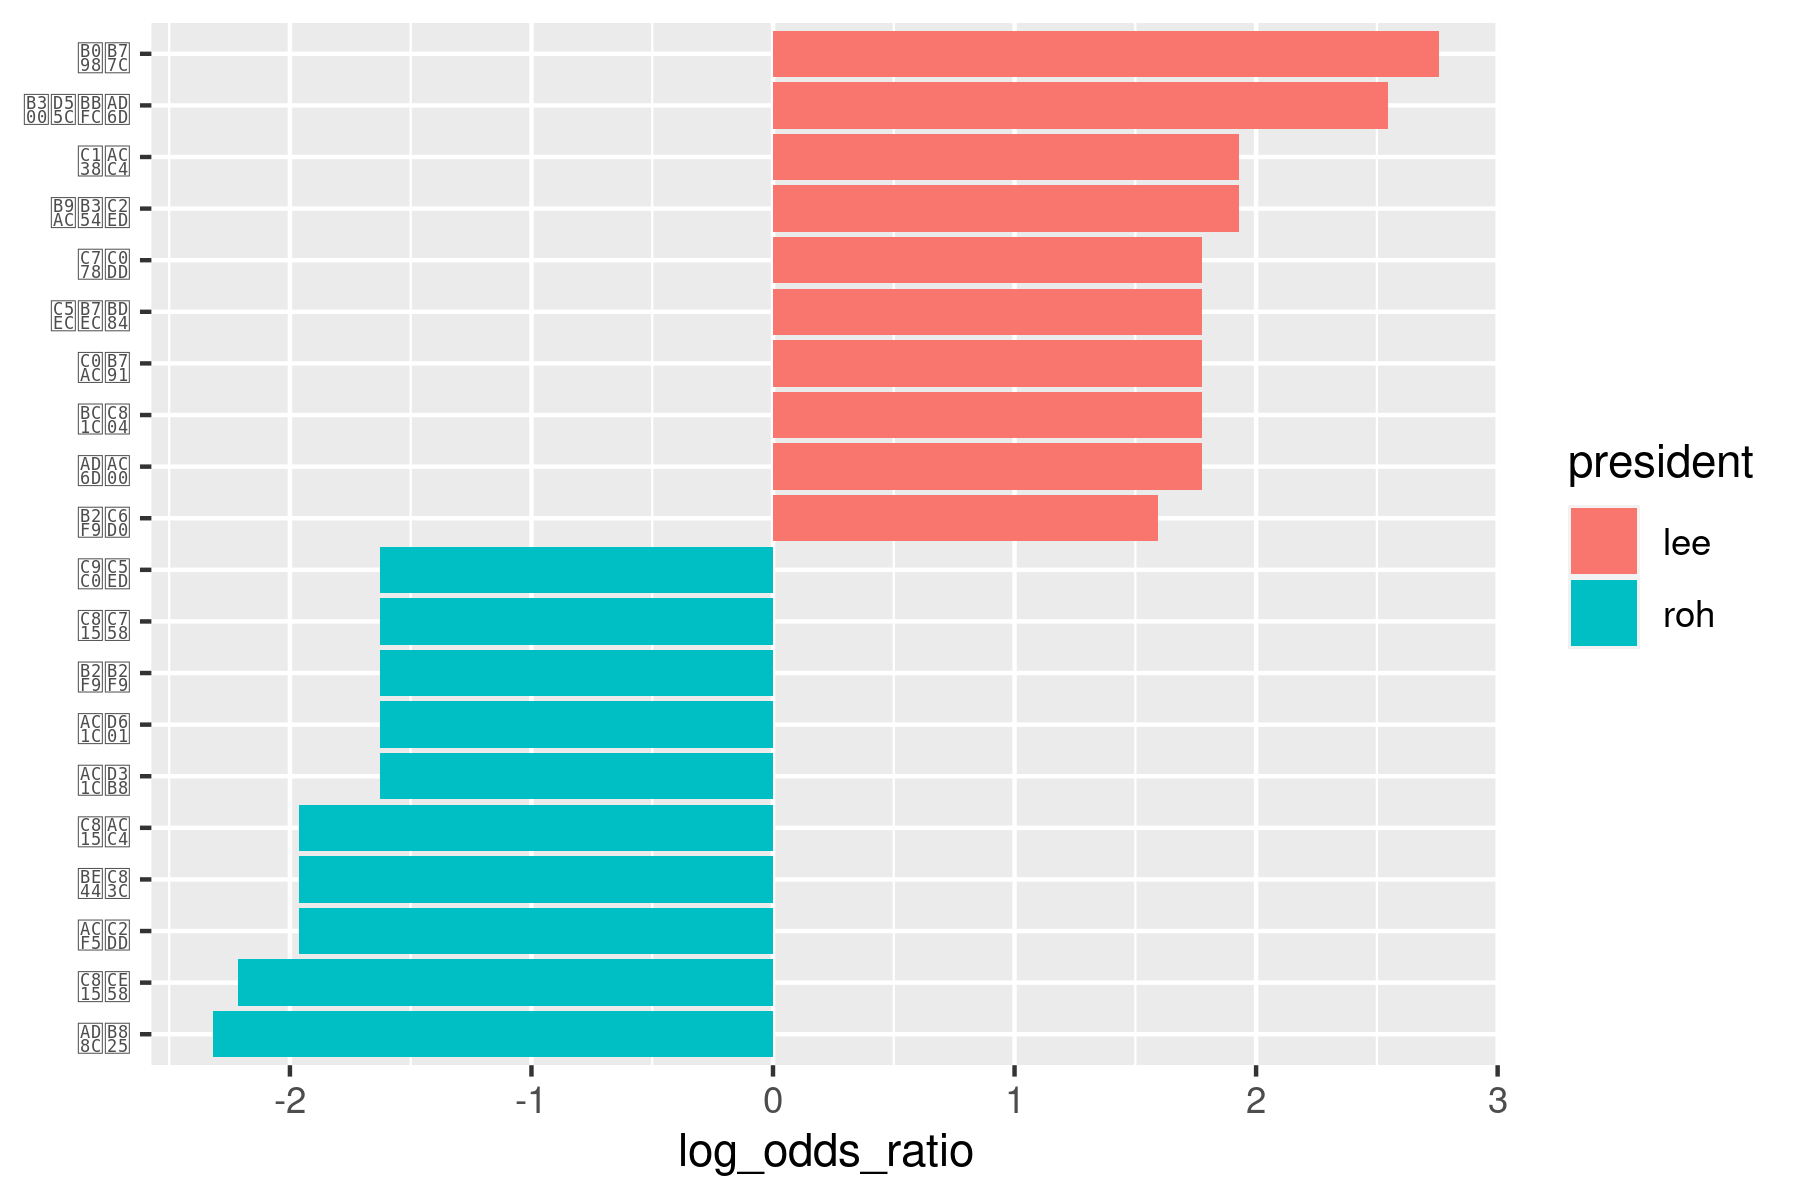
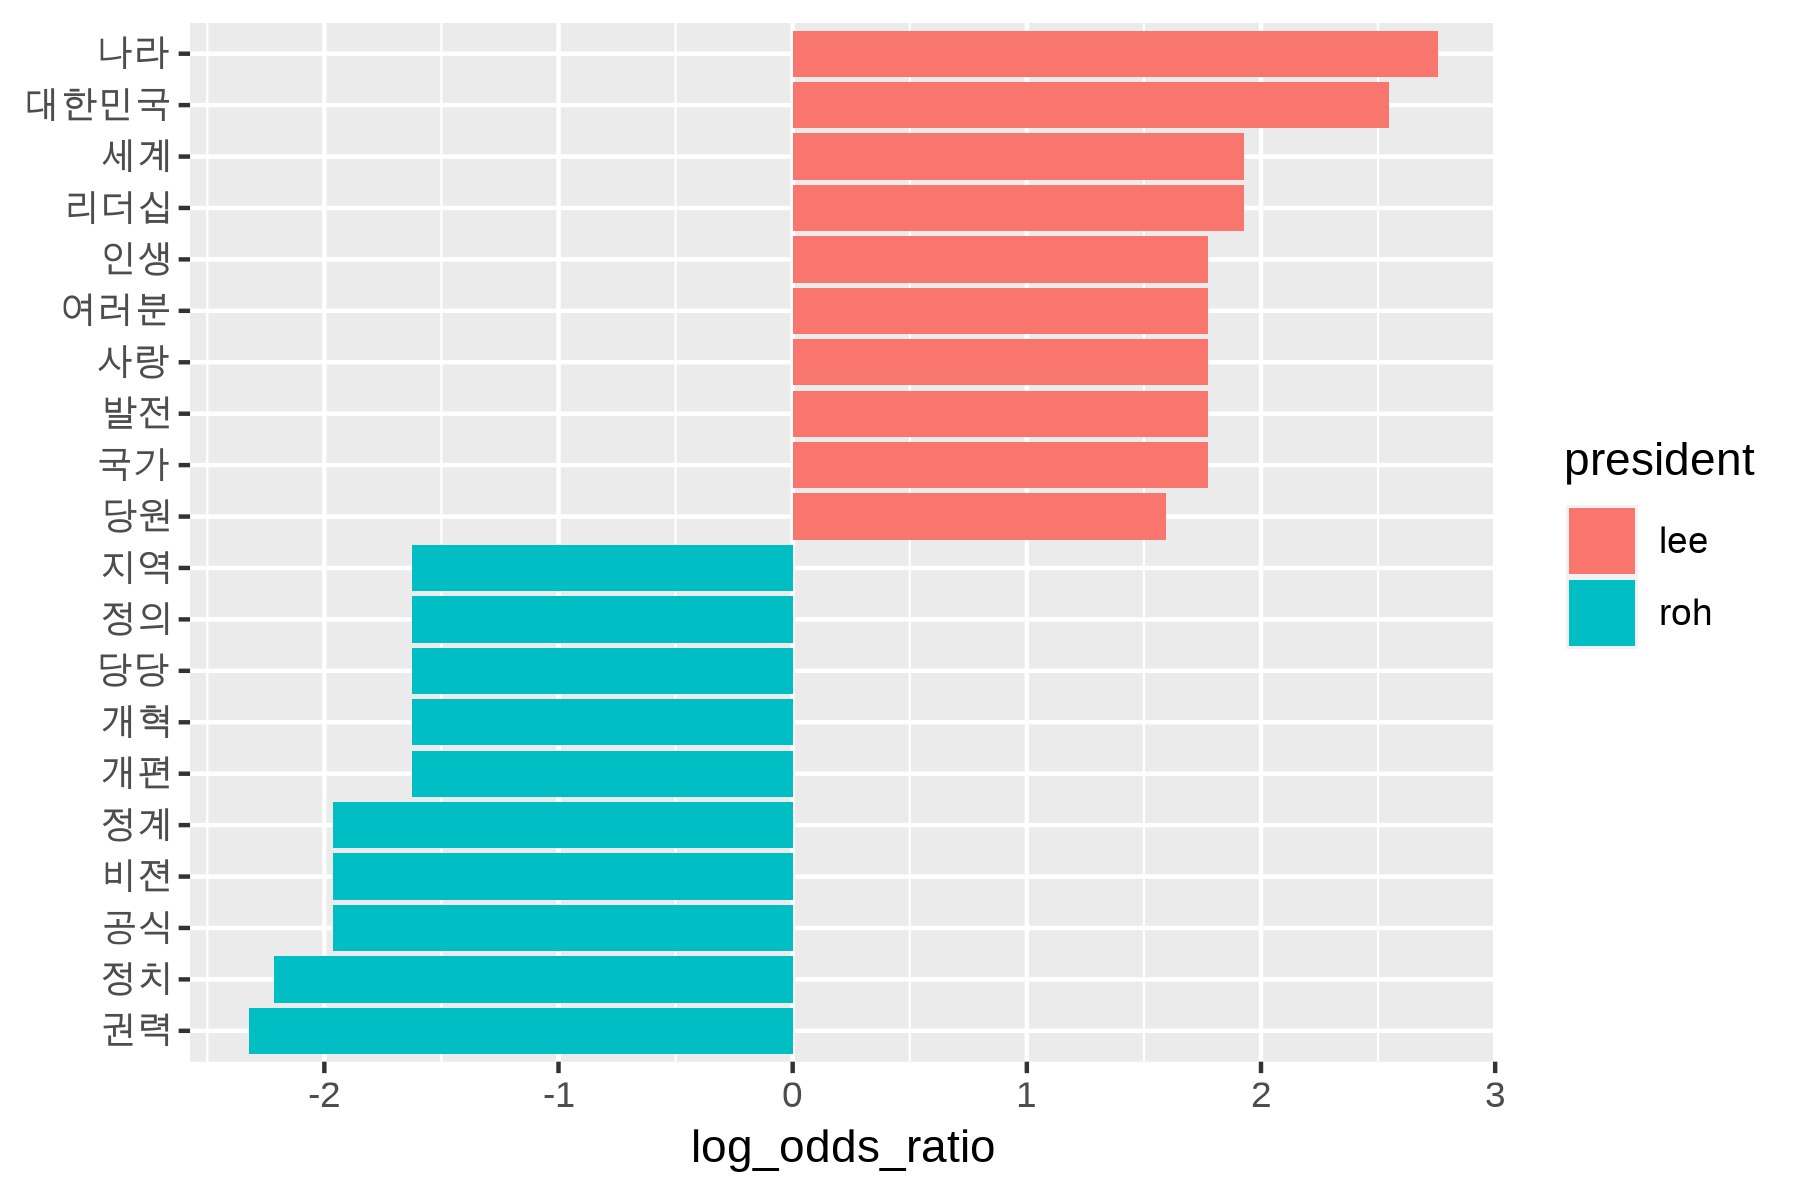
slide 03

diff --git a/docs/03-comparing.html b/docs/03-comparing.html
@@ -685,7 +685,9 @@ ggplot(top10, aes(x = reorder(word, n),
   - ex) `"행복"`, `"나라"`
 
 
-&lt;img src="03-comparing_files/figure-html/unnamed-chunk-33-1.png" width="90%" /&gt;
+
+
+&lt;img src="03-comparing_files/figure-html/unnamed-chunk-34-1.png" width="90%" /&gt;
 
 
 ---
@@ -713,7 +715,7 @@ ggplot(top10, aes(x = reorder(word, n),
 
 ---
 
-&lt;img src="03-comparing_files/figure-html/unnamed-chunk-35-1.png" width="100%" /&gt;
+&lt;img src="03-comparing_files/figure-html/unnamed-chunk-36-1.png" width="100%" /&gt;
 
 
 ---
@@ -723,7 +725,7 @@ ggplot(top10, aes(x = reorder(word, n),
 
 - 박근혜 전 대통령 `"국민"` 빈도 너무 높아 다른 단어들 차이 드러나지 않음
 
-&lt;img src="03-comparing_files/figure-html/unnamed-chunk-36-1.png" width="80%" /&gt;
+&lt;img src="03-comparing_files/figure-html/unnamed-chunk-37-1.png" width="80%" /&gt;
 
 ---
 
@@ -755,7 +757,7 @@ ggplot(top10, aes(x = reorder(word, n),
 
 ---
 
-&lt;img src="03-comparing_files/figure-html/unnamed-chunk-39-1.png" width="100%" /&gt;
+&lt;img src="03-comparing_files/figure-html/unnamed-chunk-40-1.png" width="100%" /&gt;
 
 
 ---
@@ -766,7 +768,7 @@ ggplot(top10, aes(x = reorder(word, n),
 - x축을 지정할 때 `reorder()`를 사용했는데도 막대가 빈도 기준으로 완벽하게 정렬되지 않음
 - 전체 빈도 기준으로 각 범주의 x축 순서를 정했기 때문
 
-&lt;img src="03-comparing_files/figure-html/unnamed-chunk-40-1.png" width="80%" /&gt;
+&lt;img src="03-comparing_files/figure-html/unnamed-chunk-41-1.png" width="80%" /&gt;
 
 ---
 
@@ -794,7 +796,7 @@ ggplot(top10, aes(x = reorder_within(word, n, president),
 
 ---
 
-&lt;img src="03-comparing_files/figure-html/unnamed-chunk-42-1.png" width="100%" /&gt;
+&lt;img src="03-comparing_files/figure-html/unnamed-chunk-43-1.png" width="100%" /&gt;
 
 ---
 
@@ -817,7 +819,7 @@ ggplot(top10, aes(x = reorder_within(word, n, president),
 
 ---
 
-&lt;img src="03-comparing_files/figure-html/unnamed-chunk-44-1.png" width="100%" /&gt;
+&lt;img src="03-comparing_files/figure-html/unnamed-chunk-45-1.png" width="100%" /&gt;
 
 ---
 name: 03-2
@@ -1485,7 +1487,7 @@ ggplot(top10, aes(x = reorder_within(word, n, president),
   scale_x_reordered()
 ```
 
-&lt;img src="03-comparing_files/figure-html/unnamed-chunk-70-1.png" width="60%" /&gt;
+&lt;img src="03-comparing_files/figure-html/unnamed-chunk-71-1.png" width="60%" /&gt;
 
 
 ---
@@ -1494,7 +1496,7 @@ ggplot(top10, aes(x = reorder_within(word, n, president),
 - `"park"`의 `"행복"` 빈도 기준으로 두 그래프의 x축 크기를 똑같이 고정했기 때문
 
 
-&lt;img src="03-comparing_files/figure-html/unnamed-chunk-71-1.png" width="80%" /&gt;
+&lt;img src="03-comparing_files/figure-html/unnamed-chunk-72-1.png" width="80%" /&gt;
 
 ---
 
@@ -1515,7 +1517,7 @@ ggplot(top10, aes(x = reorder_within(word, n, president),
   theme(text = element_text(family = "nanumgothic"))  # 폰트
 ```
 
-&lt;img src="03-comparing_files/figure-html/unnamed-chunk-72-1.png" width="40%" /&gt;
+&lt;img src="03-comparing_files/figure-html/unnamed-chunk-73-1.png" width="40%" /&gt;
 
 ---
 &lt;svg viewBox="0 0 576 512" xmlns="http://www.w3.org/2000/svg" style="height:1em;position:relative;display:inline-block;top:.1em;fill:#FF7333;"&gt;  [ comment ]  &lt;path d="M569.517 440.013C587.975 472.007 564.806 512 527.94 512H48.054c-36.937 0-59.999-40.055-41.577-71.987L246.423 23.985c18.467-32.009 64.72-31.951 83.154 0l239.94 416.028zM288 354c-25.405 0-46 20.595-46 46s20.595 46 46 46 46-20.595 46-46-20.595-46-46-46zm-43.673-165.346l7.418 136c.347 6.364 5.609 11.346 11.982 11.346h48.546c6.373 0 11.635-4.982 11.982-11.346l7.418-136c.375-6.874-5.098-12.654-11.982-12.654h-63.383c-6.884 0-12.356 5.78-11.981 12.654z"&gt;&lt;/path&gt;&lt;/svg&gt;  **x축 크기가 그래프마다 다르므로 해석 조심**
@@ -1524,7 +1526,7 @@ ggplot(top10, aes(x = reorder_within(word, n, president),
 - 두 텍스트 단어 빈도 비교 X
 - 각 텍스트에서 상대적으로 중요한 단어가 무엇인지 중심으로 해석
 
-&lt;img src="03-comparing_files/figure-html/unnamed-chunk-73-1.png" width="80%" /&gt;
+&lt;img src="03-comparing_files/figure-html/unnamed-chunk-74-1.png" width="80%" /&gt;
 
 ---
 
@@ -2114,12 +2116,12 @@ ggplot(top10, aes(x = reorder(word, log_odds_ratio),
   theme(text = element_text(family = "nanumgothic"))
 ```
 
-&lt;img src="03-comparing_files/figure-html/unnamed-chunk-94-1.png" width="45%" /&gt;
+&lt;img src="03-comparing_files/figure-html/unnamed-chunk-95-1.png" width="45%" /&gt;
 
 ---
 
 &lt;br&gt;
-&lt;img src="03-comparing_files/figure-html/unnamed-chunk-95-1.png" width="80%" /&gt;
+&lt;img src="03-comparing_files/figure-html/unnamed-chunk-96-1.png" width="80%" /&gt;
 
 ---
 
@@ -2571,7 +2573,7 @@ ggplot(top10, aes(x = reorder_within(word, tf_idf, president),
 
 ---
 
-&lt;img src="03-comparing_files/figure-html/unnamed-chunk-113-1.png" width="75%" /&gt;
+&lt;img src="03-comparing_files/figure-html/unnamed-chunk-114-1.png" width="75%" /&gt;
 
 ---
 
@@ -2897,10 +2899,10 @@ ggplot(top10, aes(x = reorder(word, log_odds_ratio),
   labs(x = NULL)
 ```
 
-&lt;img src="03-comparing_files/figure-html/unnamed-chunk-126-1.png" width="50%" /&gt;
+&lt;img src="03-comparing_files/figure-html/unnamed-chunk-127-1.png" width="50%" /&gt;
 
 ---
-&lt;img src="03-comparing_files/figure-html/unnamed-chunk-127-1.png" width="90%" /&gt;
+&lt;img src="03-comparing_files/figure-html/unnamed-chunk-128-1.png" width="90%" /&gt;
 
 ---
 
@@ -3094,12 +3096,12 @@ ggplot(top10, aes(x = reorder_within(word, tf_idf, president),
   labs(x = NULL)
 ```
 
-&lt;img src="03-comparing_files/figure-html/unnamed-chunk-135-1.png" width="35%" /&gt;
+&lt;img src="03-comparing_files/figure-html/unnamed-chunk-136-1.png" width="35%" /&gt;
 
 ---
 
 
-&lt;img src="03-comparing_files/figure-html/unnamed-chunk-136-1.png" width="75%" /&gt;
+&lt;img src="03-comparing_files/figure-html/unnamed-chunk-137-1.png" width="75%" /&gt;
 
 ---
 
